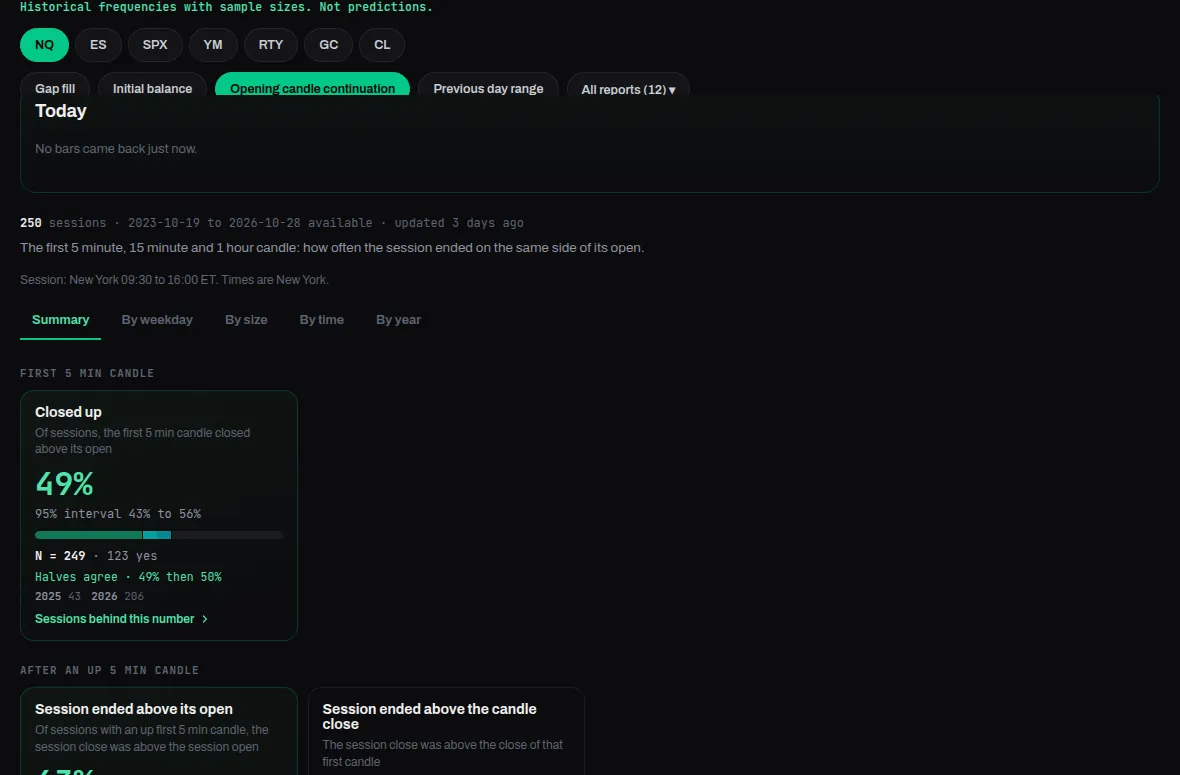
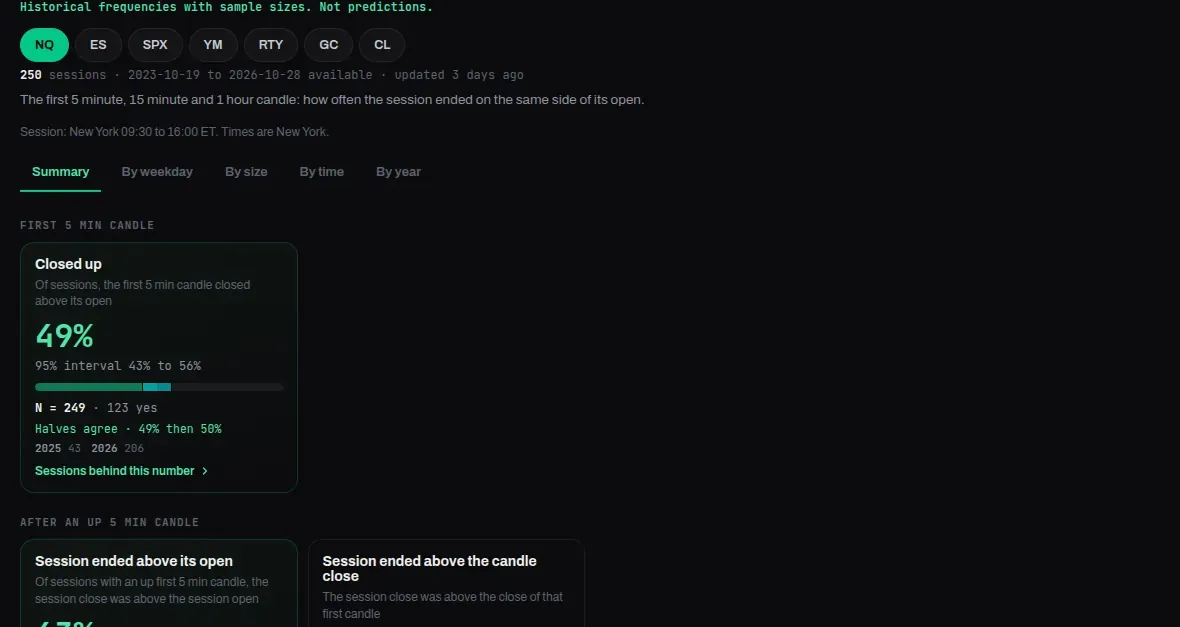
Story stage contain+center (no empty stage), Market Stats captures without the empty Today card

diff --git a/features/gex.html b/features/gex.html
@@ -86,6 +86,7 @@
 <link rel="stylesheet" href="/assets/features-page.css?v=781">
 <link rel="stylesheet" href="/assets/creators-page.css?v=781">
 <link rel="stylesheet" href="/assets/fx-page.css?v=781">
+<link rel="stylesheet" href="/assets/features-a.css?v=781">
 <script>try{if(localStorage.getItem('stryker_nav_authed')==='1')document.documentElement.classList.add('nav-authed')}catch(e){}</script>
 </head>
 <body class="dual-shell fp-page cm-page" data-no-dragon>

diff --git a/features/backtesting.html b/features/backtesting.html
@@ -86,6 +86,7 @@
 <link rel="stylesheet" href="/assets/features-page.css?v=781">
 <link rel="stylesheet" href="/assets/creators-page.css?v=781">
 <link rel="stylesheet" href="/assets/fx-page.css?v=781">
+<link rel="stylesheet" href="/assets/features-a.css?v=781">
 <script>try{if(localStorage.getItem('stryker_nav_authed')==='1')document.documentElement.classList.add('nav-authed')}catch(e){}</script>
 </head>
 <body class="dual-shell fp-page cm-page">

diff --git a/features/global-monitor.html b/features/global-monitor.html
@@ -86,6 +86,7 @@
 <link rel="stylesheet" href="/assets/features-page.css?v=781">
 <link rel="stylesheet" href="/assets/creators-page.css?v=781">
 <link rel="stylesheet" href="/assets/fx-page.css?v=781">
+<link rel="stylesheet" href="/assets/features-a.css?v=781">
 <script>try{if(localStorage.getItem('stryker_nav_authed')==='1')document.documentElement.classList.add('nav-authed')}catch(e){}</script>
 </head>
 <body class="dual-shell fp-page cm-page">

diff --git a/features/journal.html b/features/journal.html
@@ -86,6 +86,7 @@
 <link rel="stylesheet" href="/assets/features-page.css?v=781">
 <link rel="stylesheet" href="/assets/creators-page.css?v=781">
 <link rel="stylesheet" href="/assets/fx-page.css?v=781">
+<link rel="stylesheet" href="/assets/features-a.css?v=781">
 <script>try{if(localStorage.getItem('stryker_nav_authed')==='1')document.documentElement.classList.add('nav-authed')}catch(e){}</script>
 </head>
 <body class="dual-shell fp-page cm-page">

diff --git a/features/market-stats.html b/features/market-stats.html
@@ -86,6 +86,7 @@
 <link rel="stylesheet" href="/assets/features-page.css?v=781">
 <link rel="stylesheet" href="/assets/creators-page.css?v=781">
 <link rel="stylesheet" href="/assets/fx-page.css?v=781">
+<link rel="stylesheet" href="/assets/features-a.css?v=781">
 <script>try{if(localStorage.getItem('stryker_nav_authed')==='1')document.documentElement.classList.add('nav-authed')}catch(e){}</script>
 </head>
 <body class="dual-shell fp-page cm-page">

diff --git a/features/orderflow.html b/features/orderflow.html
@@ -86,6 +86,7 @@
 <link rel="stylesheet" href="/assets/features-page.css?v=781">
 <link rel="stylesheet" href="/assets/creators-page.css?v=781">
 <link rel="stylesheet" href="/assets/fx-page.css?v=781">
+<link rel="stylesheet" href="/assets/features-a.css?v=781">
 <script>try{if(localStorage.getItem('stryker_nav_authed')==='1')document.documentElement.classList.add('nav-authed')}catch(e){}</script>
 </head>
 <body class="dual-shell fp-page cm-page">

diff --git a/features/smart-money-desk.html b/features/smart-money-desk.html
@@ -86,6 +86,7 @@
 <link rel="stylesheet" href="/assets/features-page.css?v=781">
 <link rel="stylesheet" href="/assets/creators-page.css?v=781">
 <link rel="stylesheet" href="/assets/fx-page.css?v=781">
+<link rel="stylesheet" href="/assets/features-a.css?v=781">
 <script>try{if(localStorage.getItem('stryker_nav_authed')==='1')document.documentElement.classList.add('nav-authed')}catch(e){}</script>
 </head>
 <body class="dual-shell fp-page cm-page">

diff --git a/assets/features-a.css b/assets/features-a.css
@@ -1,0 +1,3 @@
+/* Feature pages A (gex, orderflow, backtesting, journal, market-stats, global-monitor, smart-money-desk): page-only tweaks on top of fx-page.css */
+.fx-sl .fx-shot{ object-fit:contain; object-position:center; }
+.fx-stage .fx-sv{ display:flex; align-items:center; justify-content:center; }
